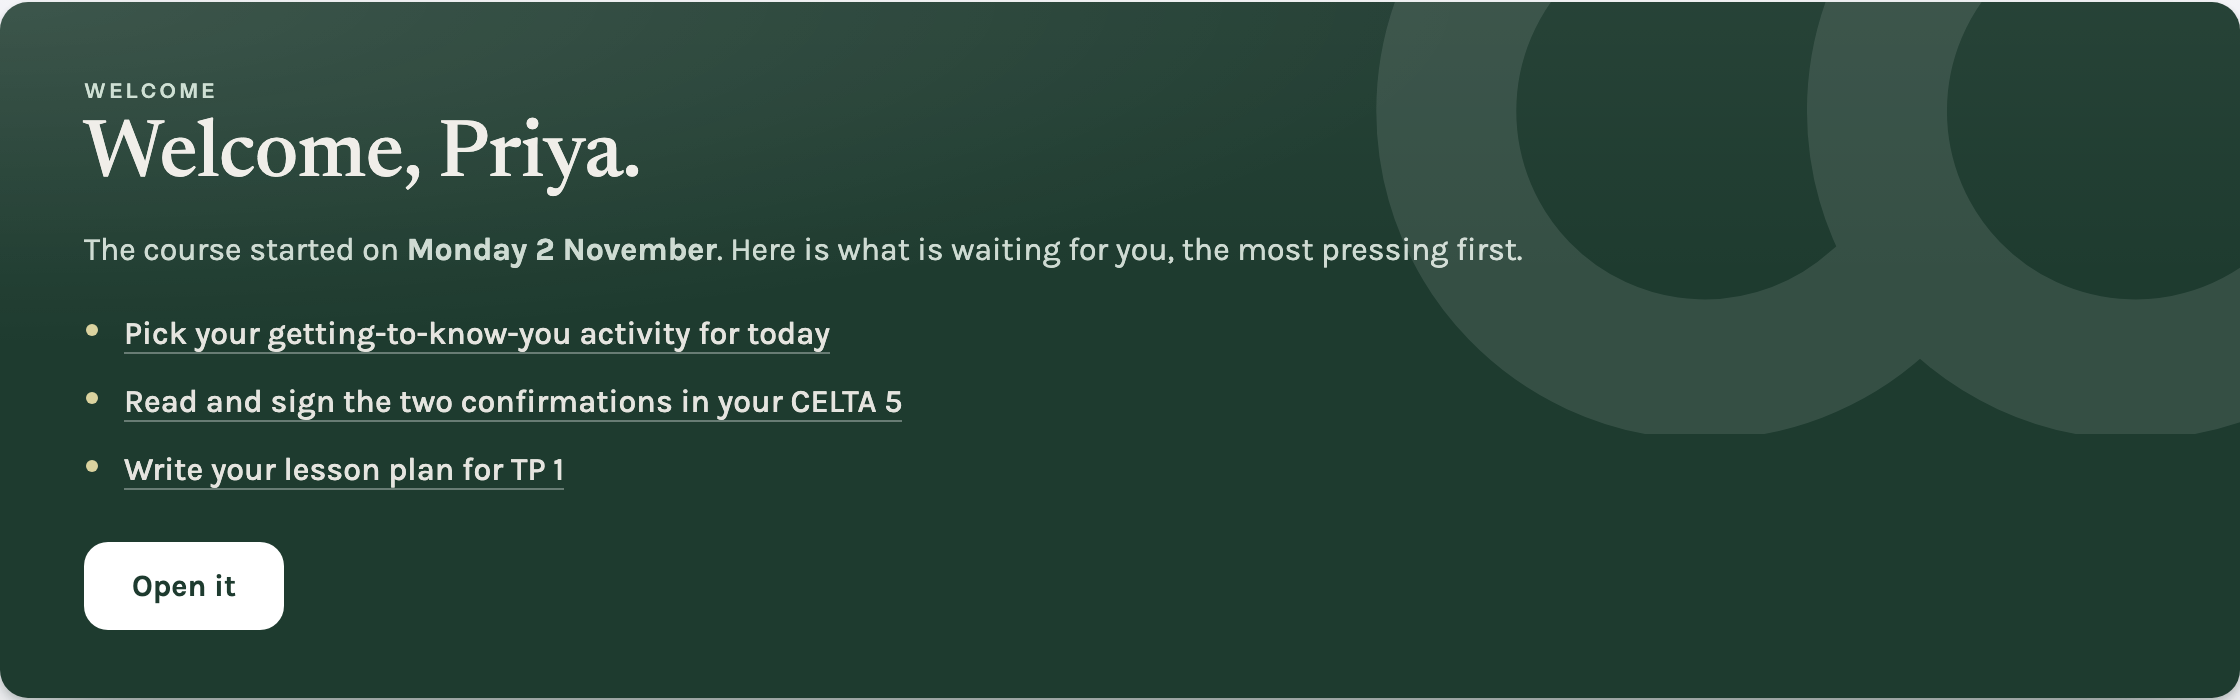
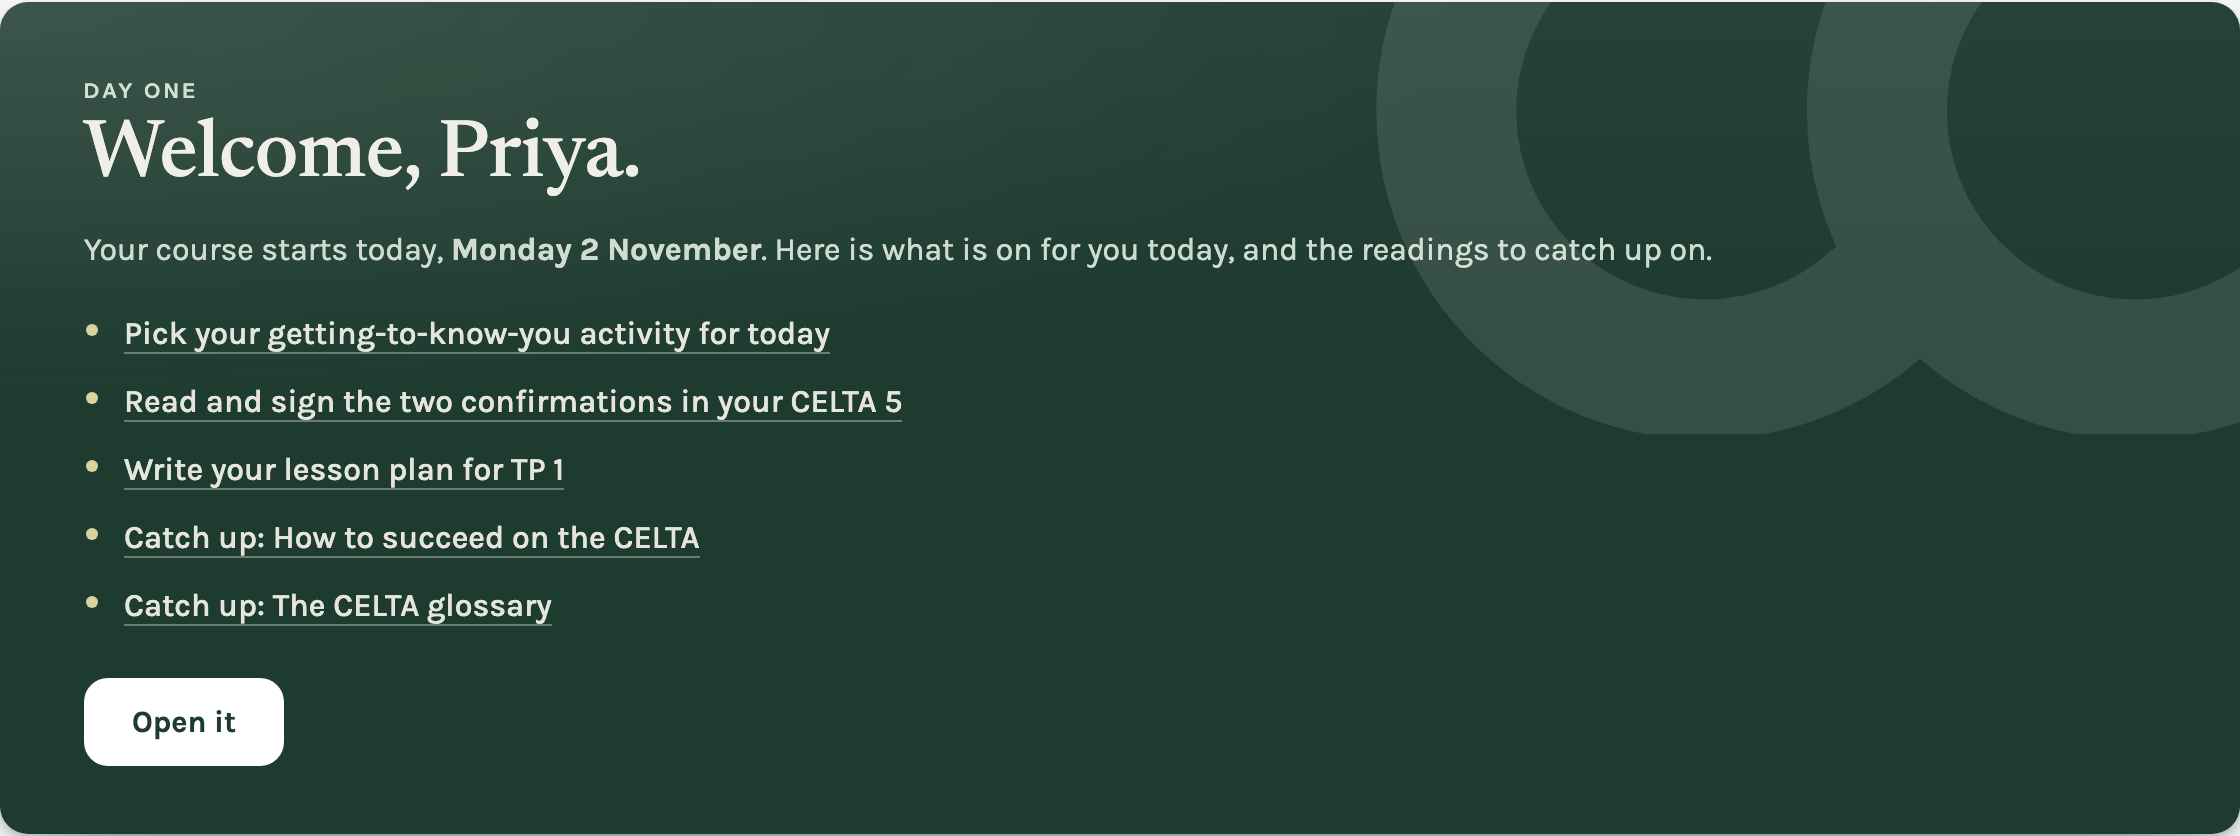
Trainee home, day one: not late (Ramy, 30 Oct 2026: "she joined the course on the first day ... the course is starting today ... she's not late"; "catch up on what you haven't done yet"). On the first day the card is headed Day one and says the course starts today, then what is on today; from day tw

Changed region(s): [[0.0312, 0.09, 0.75, 0.51], [0.0312, 0.54, 0.4062, 0.93], [0.0, 0.99, 1.0, 1.0]]

diff --git a/index.html b/index.html
@@ -1581,11 +1581,20 @@ if (fbBack){
        page is the usual one. */
     const days = (TT.days || []).filter(d => d && !d.closed && ymd(d.date));
     const at = days.filter(d => ymd(d.date) <= TODAY).length;
-    kind = 'Welcome';
+    kind = TODAY === START ? 'Day one' : 'Welcome';
     title = firstName ? 'Welcome, ' + firstName + '.' : 'Welcome.';
-    when = 'The course started on <b>' + esc2(dayName(START)) + '</b>'
-      + (at && days.length ? ' — today is day ' + at + ' of ' + days.length + '.' : '.')
-      + (list.length ? ' Here is what is waiting for you, the most pressing first.' : ' There is nothing waiting on you yet — this page will tell you the moment there is.');
+    /* day one is not late (Ramy, 30 Oct 2026: "she joined the course on the first day ... the course is starting today ... she's
+       not late"): on the first day the card says the course starts today and lists what is on; from day two, what is waiting */
+    /* THE READINGS TO CATCH UP ON (Ramy, 30 Oct 2026: "she needs to read How to succeed on the CELTA, the CELTA glossary ... catch
+       up on what you haven't done yet"): whoever first opens their link on or after day one gets the pre-course readings too */
+    const CATCH = [{ text: 'Catch up: How to succeed on the CELTA', href: '39_reading.html?doc=succeed' }, { text: 'Catch up: The CELTA glossary', href: '39_reading.html?doc=glossary' }]
+      .concat(String(CS.deliveryMode || '') === 'online' ? [{ text: 'Catch up: The online room, how it works', href: '39_reading.html?doc=online' }] : []);
+    list = list.concat(CATCH);
+    when = TODAY === START
+      ? 'Your course starts today, <b>' + esc2(dayName(START)) + '</b>. Here is what is on for you today, and the readings to catch up on.'
+      : 'The course started on <b>' + esc2(dayName(START)) + '</b>'
+        + (at && days.length ? ' — today is day ' + at + ' of ' + days.length + '.' : '.')
+        + ' Here is what is waiting for you, the most pressing first, and the readings to catch up on.';
   } else if (list.length) {
     kind = 'Today';
     title = list[0].text;
